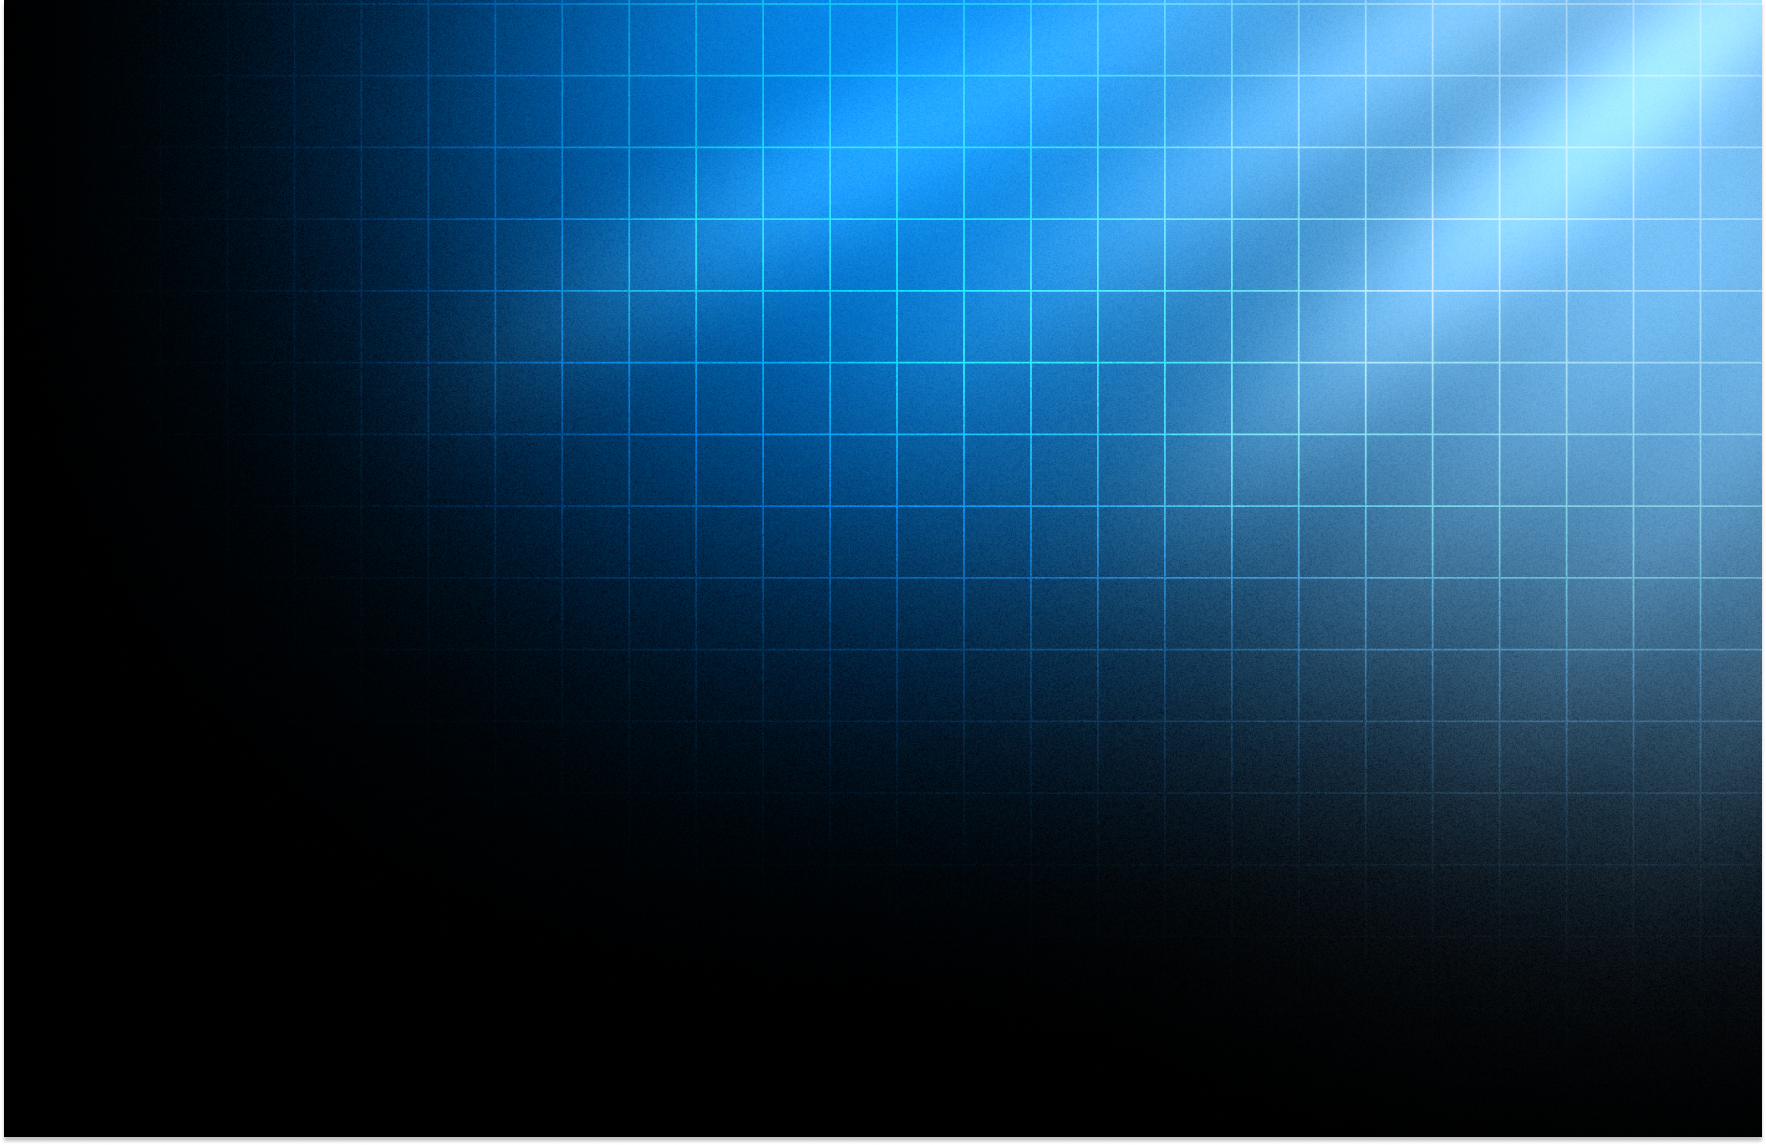
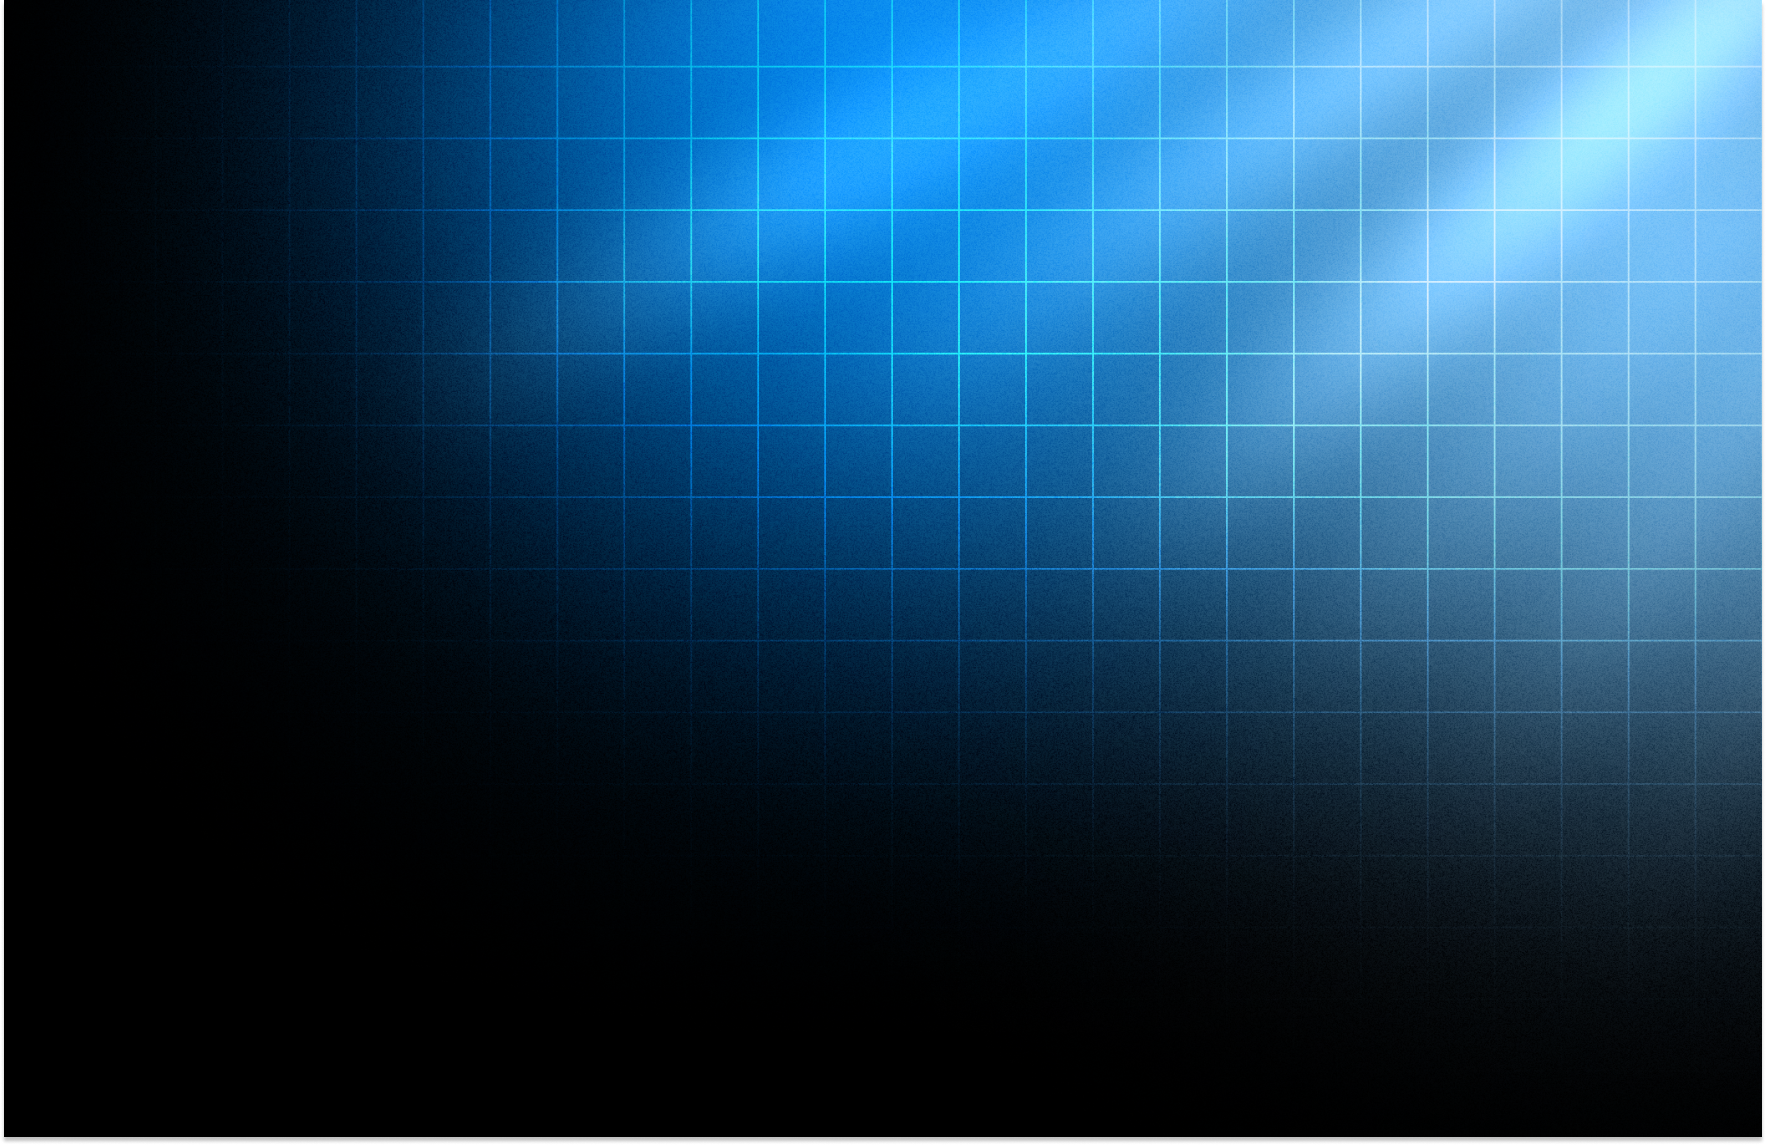
REMOVED THE ANYOING GRAY LINE ON THE RIGHT OF THE HOME SCREEN

diff --git a/static/assets/css/home_v3.css b/static/assets/css/home_v3.css
@@ -10,9 +10,8 @@ body, html {
 }
 
 .home {
-    position: relative;
-    width: 100%;
-    height: 100%;
+    position: fixed;
+    inset: 0;
     background-color: rgba(36, 36, 36, 1.00);
     overflow: hidden;
     display: block;
@@ -20,17 +19,14 @@ body, html {
 }
 
 .wallpaper-blur {
-    position: absolute;
-    left: 0;
-    top: 0;
-    width: 100%;
-    height: 100%;
+    position: fixed;
+    inset: -48px;
     background-image: url('/assets/media/homebg.png');
     background-size: cover;
     background-position: center;
+    background-repeat: no-repeat;
     filter: blur(600px);
     z-index: 1;
-    transform: scale(1.1); /* Prevent blur edges from showing */
 }
 
 .urlbox {
@@ -92,11 +88,10 @@ body, html {
 }
 
 .web {
-    position: relative;
+    position: absolute;
+    inset: 0;
     margin: 0;
-    width: 100%;
-    height: 100%;
-    background-color: rgba(30, 30, 30, 1.00);
+    background-color: transparent;
     border-radius: 0;
     z-index: 5;
     overflow: hidden;
@@ -217,10 +212,11 @@ body, html {
 
 .wallpaper {
     position: absolute;
-    left: 0px;
-    top: 0px;
-    width: 100%;
-    height: 100%;
+    inset: -8px;
     background-image: url('/assets/media/homebg.png');
     background-size: cover;
+    background-position: center;
+    background-repeat: no-repeat;
+    transform: scale(1.01);
+    transform-origin: center;
 }

diff --git a/static/index.html b/static/index.html
@@ -11,7 +11,7 @@
   <link rel="stylesheet" href="/assets/css/global.css?v=6" />
   <link rel="stylesheet" href="/assets/css/h.css?v=01" />
   <link rel="stylesheet" href="/assets/css/nav.css?v=01" />
-  <link rel="stylesheet" href="/assets/css/home_v3.css?v=05" />
+  <link rel="stylesheet" href="/assets/css/home_v3.css?v=08" />
 </head>
 
 <body>
